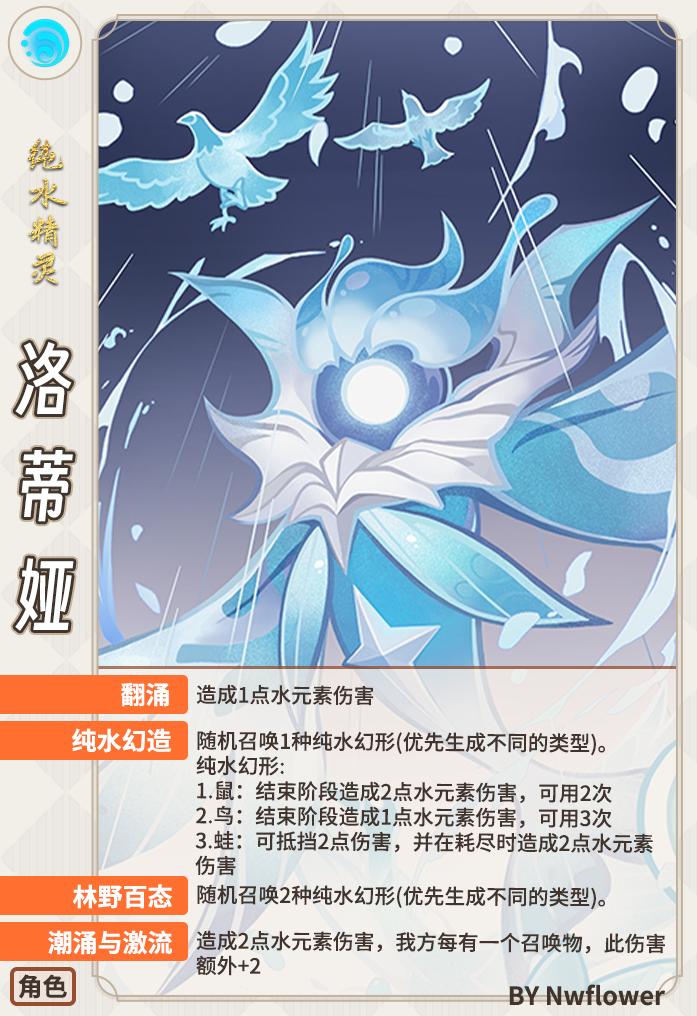
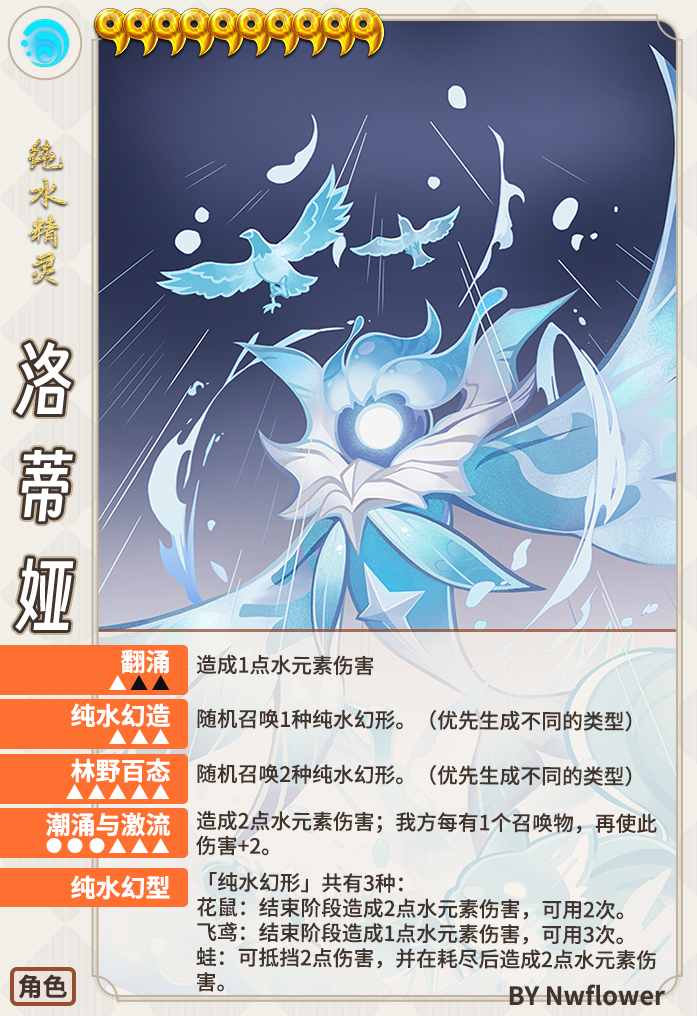
正式更新角色牌

diff --git a/README.md b/README.md
@@ -4,9 +4,9 @@
 ## 图鉴分类以及画饼
 ### 已完成的部分
 1. 武器图鉴（已更新至3.4测试服）
-2. 角色材料（已更新至3.3）
+2. 角色材料（已更新至3.4测试服）
 3. 圣遗物图鉴（新增V3.3的圣遗物，其余条目更新至3.0）
-4. 七圣召唤卡牌（已更新至3.3，尚未实装的功能有所疏漏在所难免）
+4. 七圣召唤卡牌（已更新至3.3正式版）
 ### 正在做的部分
 1. 周本图鉴（目前仅正机之神、雷神，开发进度11.4514%）
 2. 食物图鉴（已设计模板并外包）
